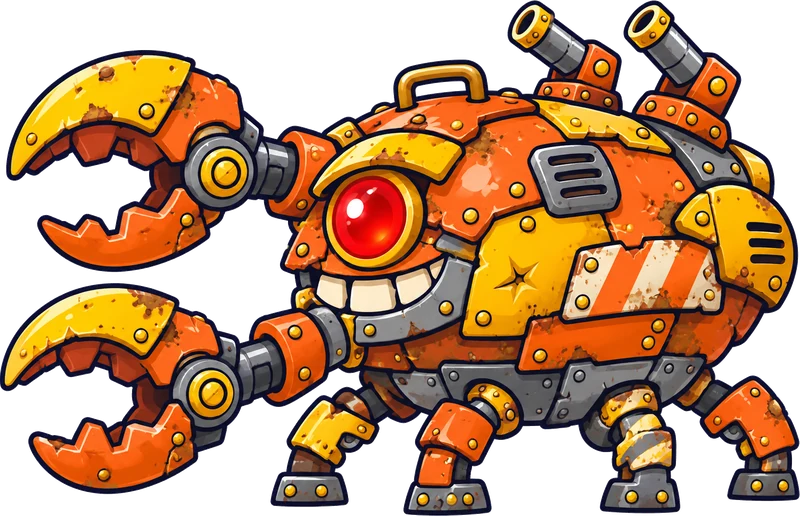
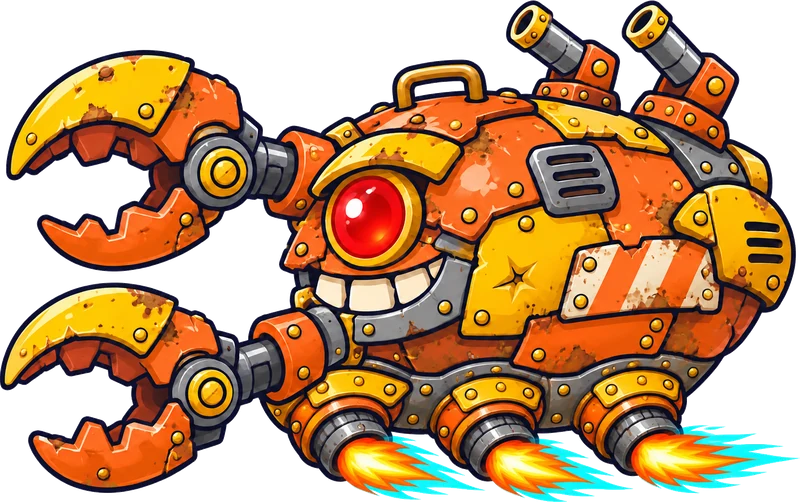
Nebula Strike: new Scrap Crab picture with flickering jets
Claude-Session: https://claude.ai/code/session_01PGxfpcX8yQ2dVm6AUd14bJ

diff --git a/index.html b/index.html
@@ -18,7 +18,7 @@
   <link href="https://fonts.googleapis.com/css2?family=Lilita+One&display=swap" rel="stylesheet">
   <meta property="og:image" content="assets/logo/share.jpg">
   <meta name="twitter:card" content="summary_large_image">
-  <link rel="stylesheet" href="css/style.css?v=20261121g">
+  <link rel="stylesheet" href="css/style.css?v=20261121h">
 </head>
 <body>
   <!-- ===== Loading screen (removed when the game has started) ===== -->
@@ -614,43 +614,43 @@
   <div id="tipCard" hidden role="status"></div>
   <div id="tutBubble" hidden role="dialog" aria-label="Guided start"></div>
   <!-- Game code, split by section. Files share one global scope and must load in this order. -->
-  <script src="js/00-i18n.js?v=20261121g"></script>
-  <script src="js/i18n-es.js?v=20261121g"></script>
-  <script src="js/i18n-es-2.js?v=20261121g"></script>
-  <script src="js/i18n-es-3.js?v=20261121g"></script>
-  <script src="js/00-phone.js?v=20261121g"></script>
-  <script src="js/01-core.js?v=20261121g"></script>
-  <script src="js/01-tabs.js?v=20261121g"></script>
-  <script src="js/02-income.js?v=20261121g"></script>
-  <script src="js/03-casino.js?v=20261121g"></script>
-  <script src="js/04-investing.js?v=20261121g"></script>
-  <script src="js/05-settings.js?v=20261121g"></script>
-  <script src="js/06-casino-cards.js?v=20261121g"></script>
-  <script src="js/07-boosters.js?v=20261121g"></script>
-  <script src="js/08-sky-climb.js?v=20261121g"></script>
-  <script src="js/09-special.js?v=20261121g"></script>
-  <script src="js/10-plinko.js?v=20261121g"></script>
-  <script src="js/11-cosmetics.js?v=20261121g"></script>
-  <script src="js/12-logistics.js?v=20261121g"></script>
-  <script src="js/13-live-trading.js?v=20261121g"></script>
-  <script src="js/14-world-map.js?v=20261121g"></script>
-  <script src="js/15-achievements.js?v=20261121g"></script>
-  <script src="js/16-prestige.js?v=20261121g"></script>
-  <script src="js/17-wiki.js?v=20261121g"></script>
-  <script src="js/18-art.js?v=20261121g"></script>
-  <script src="js/19-science.js?v=20261121g"></script>
-  <script src="js/20-tips.js?v=20261121g"></script>
-  <script src="js/21-clock.js?v=20261121g"></script>
-  <script src="js/22-main-menu.js?v=20261121g"></script>
-  <script src="js/23-minigames.js?v=20261121g"></script>
-  <script src="js/24-genetics.js?v=20261121g"></script>
-  <script src="js/25-baccarat.js?v=20261121g"></script>
-  <script src="js/26-slot-engine.js?v=20261121g"></script>
-  <script src="js/27-gene-cascade.js?v=20261121g"></script>
-  <script src="js/28-freight-shares.js?v=20261121g"></script>
-  <script src="js/29-cloud.js?v=20261121g"></script>
-  <script src="js/30-shooter.js?v=20261121g"></script>
-  <script src="js/31-shooter-art.js?v=20261121g"></script>
-  <script src="js/32-shooter-game.js?v=20261121g"></script>
+  <script src="js/00-i18n.js?v=20261121h"></script>
+  <script src="js/i18n-es.js?v=20261121h"></script>
+  <script src="js/i18n-es-2.js?v=20261121h"></script>
+  <script src="js/i18n-es-3.js?v=20261121h"></script>
+  <script src="js/00-phone.js?v=20261121h"></script>
+  <script src="js/01-core.js?v=20261121h"></script>
+  <script src="js/01-tabs.js?v=20261121h"></script>
+  <script src="js/02-income.js?v=20261121h"></script>
+  <script src="js/03-casino.js?v=20261121h"></script>
+  <script src="js/04-investing.js?v=20261121h"></script>
+  <script src="js/05-settings.js?v=20261121h"></script>
+  <script src="js/06-casino-cards.js?v=20261121h"></script>
+  <script src="js/07-boosters.js?v=20261121h"></script>
+  <script src="js/08-sky-climb.js?v=20261121h"></script>
+  <script src="js/09-special.js?v=20261121h"></script>
+  <script src="js/10-plinko.js?v=20261121h"></script>
+  <script src="js/11-cosmetics.js?v=20261121h"></script>
+  <script src="js/12-logistics.js?v=20261121h"></script>
+  <script src="js/13-live-trading.js?v=20261121h"></script>
+  <script src="js/14-world-map.js?v=20261121h"></script>
+  <script src="js/15-achievements.js?v=20261121h"></script>
+  <script src="js/16-prestige.js?v=20261121h"></script>
+  <script src="js/17-wiki.js?v=20261121h"></script>
+  <script src="js/18-art.js?v=20261121h"></script>
+  <script src="js/19-science.js?v=20261121h"></script>
+  <script src="js/20-tips.js?v=20261121h"></script>
+  <script src="js/21-clock.js?v=20261121h"></script>
+  <script src="js/22-main-menu.js?v=20261121h"></script>
+  <script src="js/23-minigames.js?v=20261121h"></script>
+  <script src="js/24-genetics.js?v=20261121h"></script>
+  <script src="js/25-baccarat.js?v=20261121h"></script>
+  <script src="js/26-slot-engine.js?v=20261121h"></script>
+  <script src="js/27-gene-cascade.js?v=20261121h"></script>
+  <script src="js/28-freight-shares.js?v=20261121h"></script>
+  <script src="js/29-cloud.js?v=20261121h"></script>
+  <script src="js/30-shooter.js?v=20261121h"></script>
+  <script src="js/31-shooter-art.js?v=20261121h"></script>
+  <script src="js/32-shooter-game.js?v=20261121h"></script>
 </body>
 </html>

diff --git a/js/32-shooter-game.js b/js/32-shooter-game.js
@@ -238,7 +238,7 @@ const shDist2 = (ax, ay, bx, by) => (ax - bx) ** 2 + (ay - by) ** 2;
    circles: [x, y, radius] as parts of the picture width/height (from the centre)
    --------------------------------------------------------------------- */
 const SH_BOSS = {
-  crab:   { name: "Scrap Crab", img: "boss-crab", w: 300, ar: 516 / 800, hp: 240, hx: SHW - 170, dust: 60,
+  crab:   { name: "Scrap Crab", img: "boss-crab", w: 300, ar: 502 / 800, hp: 240, hx: SHW - 170, dust: 60,
     circles: [[0.13, 0.02, 0.21], [-0.33, -0.25, 0.1], [-0.33, 0.21, 0.1], [0.1, -0.42, 0.06], [0.26, -0.42, 0.06]] },
   hive:   { name: "Hive Queen", img: "boss-hive", w: 390, ar: 376 / 800, hp: 340, hx: SHW - 205, dust: 100,
     circles: [[-0.43, 0.06, 0.06], [-0.3, 0.12, 0.075], [-0.14, 0.17, 0.08], [0.03, 0.17, 0.085], [0.2, 0.16, 0.08], [0.36, 0.12, 0.065]] },
@@ -655,6 +655,16 @@ function shDraw() {
     if (h && (b.flash > 0 || b.warn && Math.floor(R.t * 10) % 2 || b.inv > 0 && Math.floor(R.t * 12) % 2)) {
       g.save(); g.globalCompositeOperation = "lighter"; g.globalAlpha = b.warn ? 0.45 : 0.35;
       shDrawImg(g, b.img, bx, by, b.w); g.restore();
+    }
+    // 🦀 the Scrap Crab's three jets flicker
+    if (h && b.k === "crab") {
+      g.save(); g.globalCompositeOperation = "lighter";
+      for (const dx of [-0.05, 0.15, 0.33]) {
+        const fx = bx + dx * b.w, fy = by + 0.42 * h, r = 14 + Math.random() * 6;
+        g.globalAlpha = 0.35 + Math.random() * 0.25; g.fillStyle = shRad(g, fx, fy, 1, r, ["rgba(255,230,140,0.9)", "rgba(255,120,40,0)"]);
+        g.beginPath(); g.arc(fx, fy, r, 0, Math.PI * 2); g.fill();
+      }
+      g.restore();
     }
     if (b.k === "taxman" && b.phase === 3 && Math.random() < 0.3) R.fx.push({ x: bx + shRand(-0.4, 0.4) * b.w, y: by - shRand(0, 0.3) * h, vx: -30, vy: -50, life: 0.9, max: 0.9, r: 8, c: "rgba(70,60,70,0.5)", smoke: true });
   }

diff --git a/js/22-main-menu.js b/js/22-main-menu.js
@@ -53,6 +53,7 @@ const PATCH_NOTES = [
   { date: "21 November 2026", title: "Empire of Coins", items: [
     "🚀 New mini-game: <b>Nebula Strike</b>! A side-scrolling space shooter that opens when you build the 🚀 Space Mission Center. Fight through 3 levels of enemy waves and beat the <b>Scrap Crab</b>, the <b>Hive Queen</b> and <b>The Taxman</b>. Time your 🛡 shield, grab special weapons from supply ships and collect ✨ stardust to buy 4 ships and their upgrades.",
     "🏆 New <b>🚀 Nebula Strike</b> achievements section: 10 achievements.",
+    "🦀 Nebula Strike: the Scrap Crab has a new look: it now flies on three rocket jets.",
     "🌌 Nebula Strike: new hand-painted backgrounds for all 3 levels, and each boss now has its own arena (the Scrap Crab's junkyard, the Hive Queen's nest and The Taxman's vault) that fades in when the boss arrives.",
     "🪨 Nebula Strike: new hand-painted asteroids in three sizes (bigger ones are tougher and worth more points) and a new look for the spinning blade enemies.",
     "⭐ Nebula Strike: every destroyed enemy and boss now gives ⭐ points. Your best score for each level is shown next to its best time.",

diff --git a/js/i18n-es-3.js b/js/i18n-es-3.js
@@ -539,6 +539,7 @@ Object.assign(ES, {
     "🪨 Nebula Strike: nuevos asteroides pintados a mano en tres tamaños (los grandes son más duros y dan más puntos) y un nuevo aspecto para los enemigos de cuchillas giratorias.",
   "🌌 Nebula Strike: new hand-painted backgrounds for all 3 levels, and each boss now has its own arena (the Scrap Crab's junkyard, the Hive Queen's nest and The Taxman's vault) that fades in when the boss arrives.":
     "🌌 Nebula Strike: nuevos fondos pintados a mano para los 3 niveles, y cada jefe tiene ahora su propia arena (el desguace del Cangrejo Chatarra, el nido de la Reina de la Colmena y la cámara acorazada de El Recaudador) que aparece cuando llega el jefe.",
+  "🦀 Nebula Strike: the Scrap Crab has a new look: it now flies on three rocket jets.": "🦀 Nebula Strike: el Cangrejo Chatarra tiene un nuevo aspecto: ahora vuela con tres propulsores.",
   "/ WASD": "/ WASD", "Shift / K": "Shift / K", "X / L": "X / L", "P / Esc": "P / Esc", "Move": "Moverse", "Shoot": "Disparar", "Auto-fire on": "Disparo automático", "Space": "Espacio",
   "about 5 min": "unos 5 min", "about 6–7 min": "unos 6–7 min",
   // achievements
